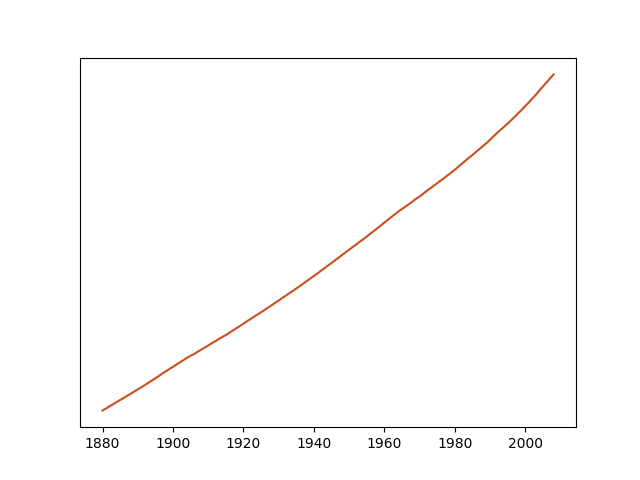
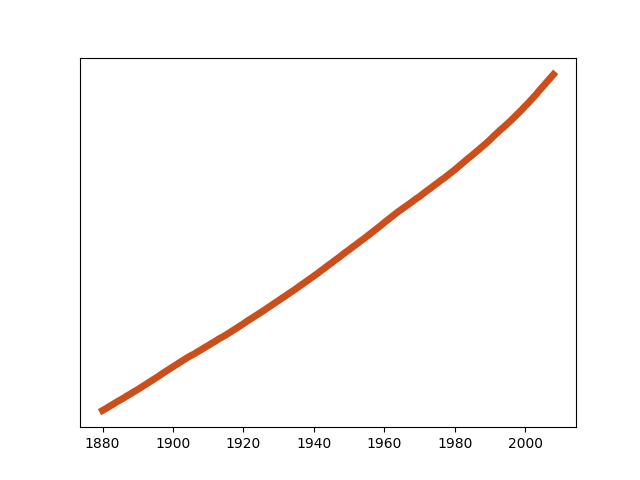
Fixed plot

diff --git a/fortran/plot.py b/fortran/plot.py
@@ -96,7 +96,7 @@ _,_,_ ,gmsl_outh = doeclim_gmsl(asc = high[7], t2co_in = high[5], kappa_in=high[
 _,_,_ ,gmsl_outm = doeclim_gmsl(asc = med[7], t2co_in = med[5], kappa_in=med[6], alphasl_in = med[0], Teq = med[1], SL0 = med[2], forcing='forcing_hindcast')
 
 x = list(range(1880, 1880+len(gmsl_outl)))
-plt.plot(x, gmsl_outm, 'k', color='#CC4F1B')
+plt.plot(x, gmsl_outm, 'k', color='#CC4F1B', linewidth=5)
 
 
 #plt.fill_between(x, gmsl_outl, gmsl_outh,
